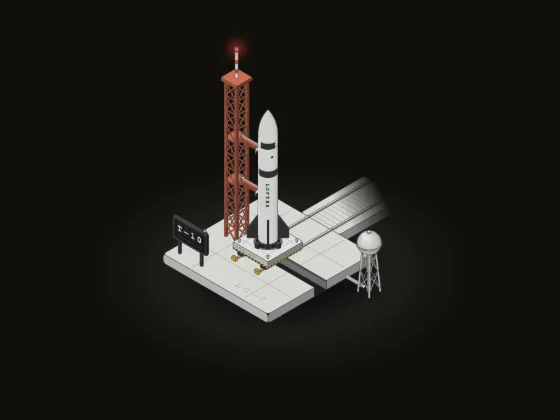
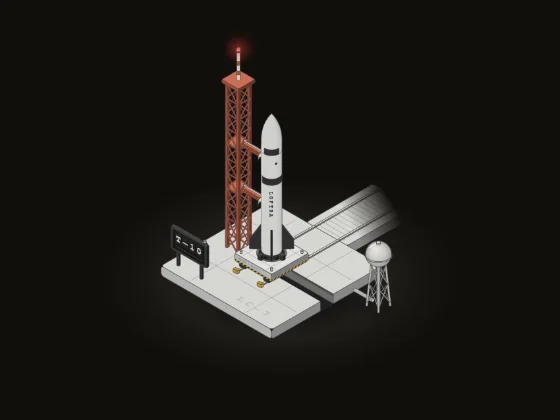
Keep the rocket launch pad's ground shadow inside its stage, above the caption

Changed region(s): [[0.2732, 0.1238, 0.6982, 0.8048]]

diff --git a/packages/miniatures/src/figures/rocket-launch-pad.ts b/packages/miniatures/src/figures/rocket-launch-pad.ts
@@ -66,7 +66,7 @@ function lit(n,c,base='lamp'){if(n._c!==c){n._c=c;set(n,'class',base+(c?' '+c:''
 function bind(g,fn){g.addEventListener('click',fn);g.addEventListener('keydown',e=>{if(e.key==='Enter'||e.key===' '){e.preventDefault();e.stopPropagation();if(!e.repeat)fn();}});}
 function button(g,attrs){for(const[k,v]of Object.entries({class:'control',role:'button',tabindex:'0',...attrs}))set(g,k,v);return g;}
 // Floor; the crawlerway, fading out where the platform goes for a fresh rocket.
-const s0=P(10,-4,0);for(const c of['shadow stage-floor','stage-contact'])el('ellipse',{cx:f2(s0[0]),cy:f2(s0[1]+5),rx:128,ry:72,class:c});
+const s0=P(4,-5,0);for(const c of['shadow stage-floor','stage-contact'])el('ellipse',{cx:f2(s0[0]),cy:f2(s0[1]+2.5),rx:114,ry:64,class:c});
 {const a=P(0,-84,9),b=P(0,-128,9),g=el('linearGradient',{id:'cwG',gradientUnits:'userSpaceOnUse',x1:f2(a[0]),y1:f2(a[1]),x2:f2(b[0]),y2:f2(b[1])},dfs);el('stop',{offset:0,'stop-color':'#fff'},g);el('stop',{offset:1,'stop-color':'#000'},g);const m=el('mask',{id:'cwFade',maskUnits:'userSpaceOnUse',x:-300,y:-400,width:700,height:700},dfs);el('rect',{x:-300,y:-400,width:700,height:700,fill:'url(#cwG)'},m);}
 into(el('g',{mask:'url(#cwFade)'}));box(-22,-132,0,44,72,9,2,'pad');{const t=group(TOP(-22,-132,9.02));for(let v=3;v<72;v+=5)line(t,6,v,38,v,'tie');}for(const x of[-13,13])box(x-.8,-132,9,1.6,72,1.2,.3,'metal');into(draw);
 // Pad: concrete with joints and its painted number; the trench's mouth and open slot with the far wall and the deflector.
